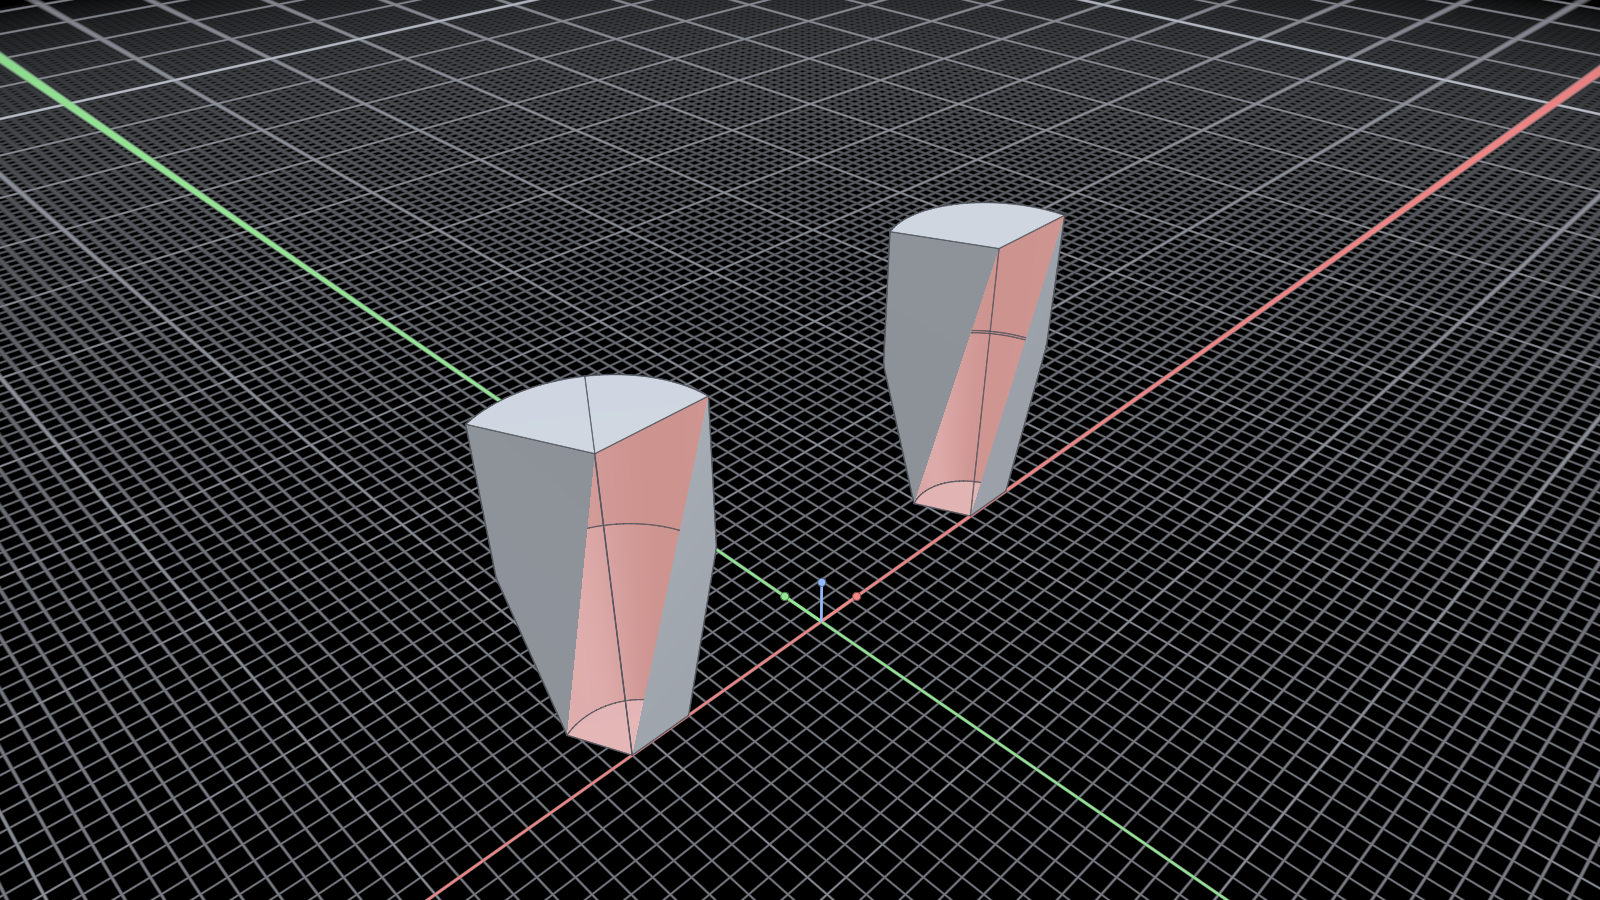
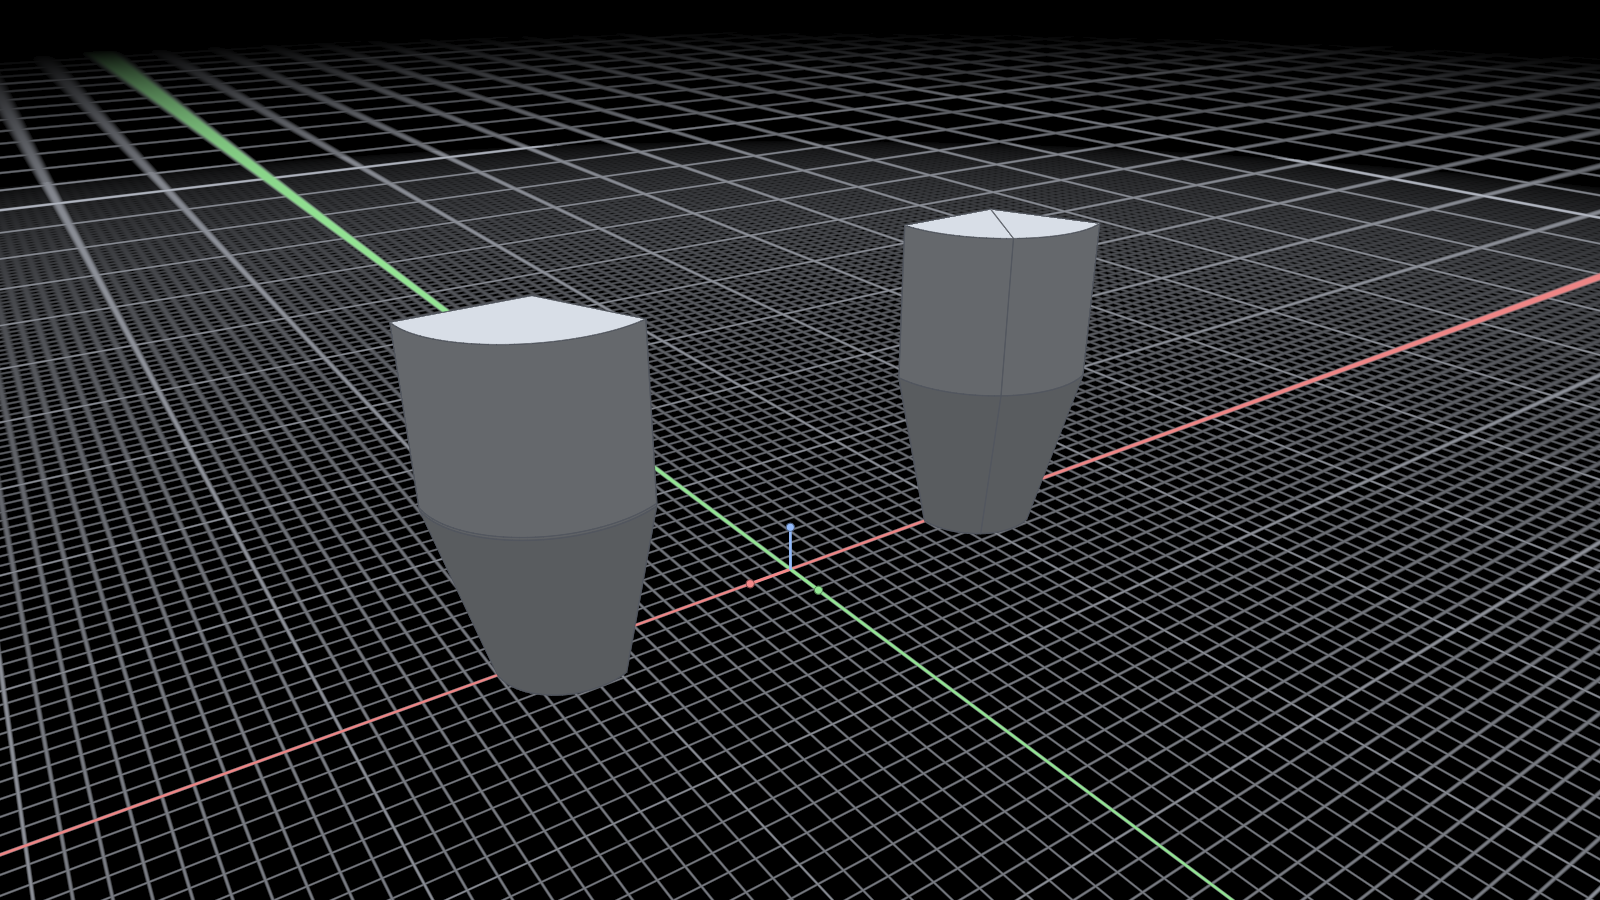
SolidArc: correct partial cone-cylinder proof orientation

diff --git a/Editor/AuthoringTools/Modelling/SolidArc/Verification/PartialConeCylinderFilletVerification.cpp b/Editor/AuthoringTools/Modelling/SolidArc/Verification/PartialConeCylinderFilletVerification.cpp
@@ -160,6 +160,22 @@ namespace
            After.MisorientedEdges == Before.MisorientedEdges && std::fabs(After.Volume - Before.Volume) < 1e-9;
 }
 
+[[nodiscard]] bool ExteriorFaceNormals(const BrepBody& Body) noexcept
+{
+    const Box3 Bounds = Body.Bounds();
+    const Vec3 Centre = (Bounds.Low + Bounds.High) * 0.5;
+    for (size_t Face = 0; Face < Body.Faces.size(); ++Face)
+    {
+        const BrepBody::FaceTriangles T = Body.TessellateFace(static_cast<int>(Face));
+        if (T.Positions.empty() || T.Normals.size() != T.Positions.size()) return false;
+        Vec3 Position{ 0, 0, 0 }, Normal{ 0, 0, 0 };
+        for (size_t I = 0; I < T.Positions.size(); ++I) { Position += T.Positions[I]; Normal += T.Normals[I]; }
+        Position = Position / static_cast<double>(T.Positions.size());
+        if (Normal.Normalised().Dot(Position - Centre) <= ScalarCriteria::MergeTolerance) return false;
+    }
+    return true;
+}
+
 [[nodiscard]] double FilletRemoval(double BaseRadius, double RootRadius, double ConeHeight,
                                    double Radius, double SweepAngle) noexcept
 {
@@ -238,6 +254,7 @@ int main()
                      Result.Payload.Vertices.size() == 10 && Result.Payload.Edges.size() == 15 &&
                      Result.Payload.Coedges.size() == 30 && Result.Payload.Loops.size() == 7 && Result.Payload.Faces.size() == 7 &&
                      Report.OpenEdges == 0 && Report.NonManifoldEdges == 0 && Report.MisorientedEdges == 0);
+        Panel.Expect("The reconstructed face tessellations carry outward normals", ExteriorFaceNormals(Result.Payload));
         const double Fraction = std::fabs(SweepAngle) / ScalarCriteria::TwoPi;
         const double SourceTarget = Fraction * ScalarCriteria::Pi *
             (ConeHeight * (BaseRadius * BaseRadius + BaseRadius * RootRadius + RootRadius * RootRadius) / 3.0 +
@@ -277,7 +294,7 @@ int main()
     const bool Rendered = SourceResult && ProofResult &&
         ProofHost.Document().AddBody("SharpPartialConeCylinder", Source.Transformed(Mat4::Translation({ -11, 0, 0 }))).Identity > 0 &&
         ProofHost.Document().AddBody("FilletedPartialConeCylinder", ProofResult.Payload.Transformed(Mat4::Translation({ 11, 0, 0 }))).Identity > 0 &&
-        ProofHost.Execute("view iso") && ProofHost.Execute("view fit") && ProofHost.Execute("render Phase36s_PartialConeCylinderFillet");
+        ProofHost.Execute("show shading flat") && ProofHost.Execute("view iso") && ProofHost.Execute("view orbit 190 -10") && ProofHost.Execute("view fit") && ProofHost.Execute("render Phase36s_PartialConeCylinderFillet");
     Panel.Expect("The cone–cylinder source/result proof render completes", Rendered);
     Panel.Expect("The cone–cylinder proof PNG is visible", std::filesystem::exists(Proof) && std::filesystem::file_size(Proof, Error) > 100000);
     return Panel.Conclude();

diff --git a/Editor/AuthoringTools/Modelling/SolidArc/README.md b/Editor/AuthoringTools/Modelling/SolidArc/README.md
@@ -635,7 +635,7 @@ outside. Verified numerically in `KernelVerification` — this is what booleans 
 | 36p | **Bounded complete cylinder–cone root fillet.** A narrowing coaxial cylindrical/conical boss root reconstructs an exact toroidal roll with retained cylinder and cone as `V6/E11/F7`; flaring, zero-angle, apex, partial, variable-radius, and non-coaxial routes remain refused. | `CylinderConeFilletVerification` — 15 C++ checks; `Proofs/Phase36p_CylinderConeFillet.png` |
 | 36q | **Bounded complete cone–cone root fillet.** Two coaxial conical frusta with an increasing narrowing slope reconstruct retained cones and one exact circular roll as `V4/E7/F5`; partial, flaring, equal-slope, apex, variable-radius, and non-coaxial routes remain refused. | `ConeConeFilletVerification` — 16 C++ checks; `Proofs/Phase36q_ConeConeFillet.png` |
 | 36r | **Bounded partial cone–cone root fillet.** A coaxial non-reflex cone–cone sector, including the half-turn, reconstructs an exact circular roll with radial endpoint-cap healing as `V10/E15/F7`; flaring, arbitrary, apex, variable-radius, and non-coaxial roots remain refused. | `PartialConeConeFilletVerification` — 15 C++ checks; `Proofs/Phase36r_PartialConeConeFillet.png` |
-| 36s | **Bounded partial cone–cylinder root fillet.** A coaxial non-reflex cone–cylinder sector, including the half-turn, accepts the exact cone-widens-toward-cylinder orientation and reconstructs one toroidal roll with radial endpoint-cap healing as `V10/E15/F7`; narrowing, complete, apex, arbitrary, variable-radius, and non-coaxial roots remain refused. | `PartialConeCylinderFilletVerification` — 14 C++ checks; `Proofs/Phase36s_PartialConeCylinderFillet.png` |
+| 36s | **Bounded partial cone–cylinder root fillet.** A coaxial non-reflex cone–cylinder sector, including the half-turn, accepts the exact cone-widens-toward-cylinder orientation and reconstructs one toroidal roll with radial endpoint-cap healing as `V10/E15/F7`; narrowing, complete, apex, arbitrary, variable-radius, and non-coaxial roots remain refused. | `PartialConeCylinderFilletVerification` — 15 C++ checks; `Proofs/Phase36s_PartialConeCylinderFillet.png` |
 
 ## Console quick start
 
